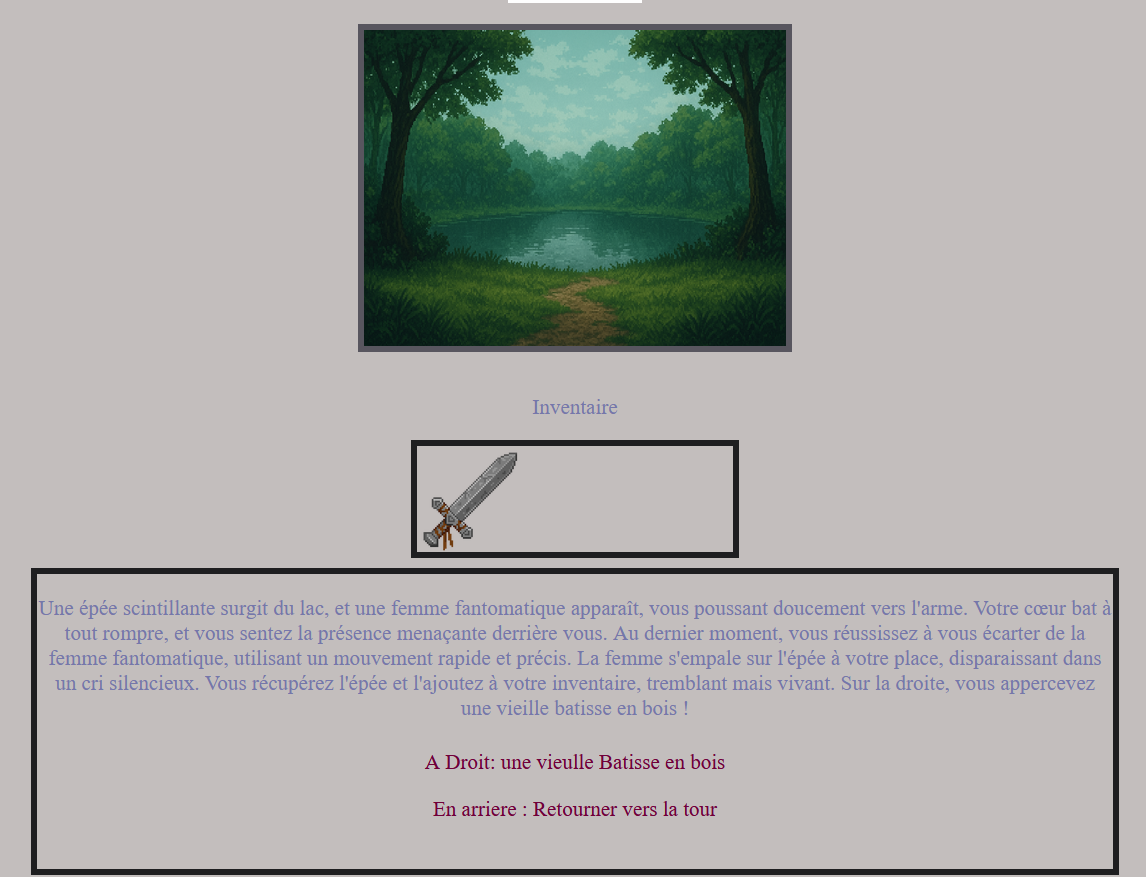
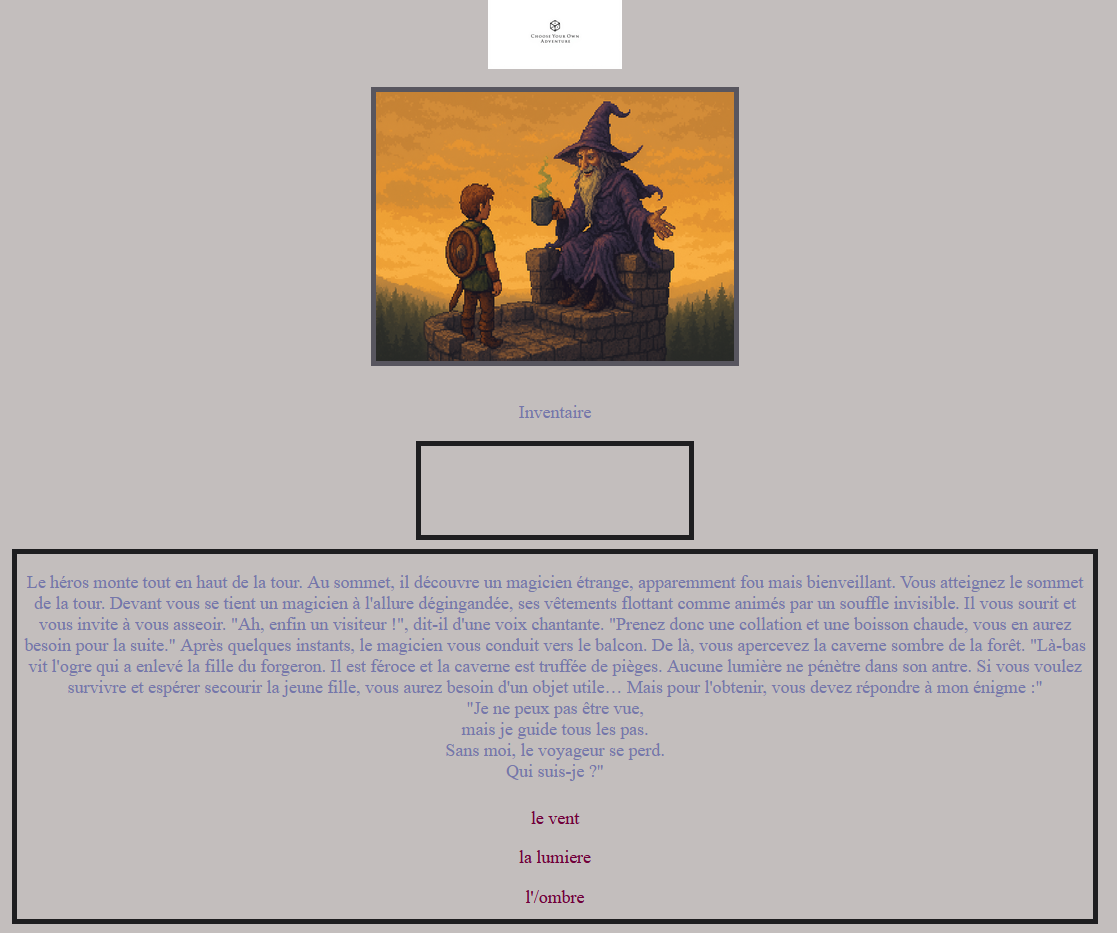
New commit

Changed region(s): [[0.0, 0.431, 1.0, 1.0], [0.3044, 0.0, 0.7001, 0.4002]]

diff --git a/index.html b/index.html
@@ -19,7 +19,7 @@
             <ul class="nav-links">
                 <li><a href="#about">À propos</a></li>
                 <li><a href="#skills">Compétences</a></li>
-                <li><a href="#certifications">certifs</a></li>
+                <li><a href="#certifications">certification</a></li>
                 <li><a href="#projects">Projets</a></li>
                 <li><a href="#stage">Stage</a></li>
                 <li><a href="#contact">Contacts</a></li>
@@ -86,14 +86,11 @@
             <!-- Présentation -->
             <div class="tab-content active" id="presentation">
                 <p>
-                        Étudiante en Bachelor Informatique & Développement, je me spécialise dans les systèmes,
-                        réseaux et le développement. Curieuse et passionnée, j’aime comprendre le fonctionnement
-                        des infrastructures, résoudre des incidents et créer des projets techniques pour monter
-                        en compétences.
+                    Étudiante en Bachelor Informatique & Développement, je me passionne pour les systèmes,
+                     les réseaux et le développement. Curieuse et rigoureuse, j’aime comprendre le fonctionnement des infrastructures, résoudre des incidents complexes et concevoir des projets techniques pour enrichir mes compétences.
                         <br><br>
-                        Mon objectif est de devenir une professionnelle polyvalente, capable d’intervenir aussi
-                        bien sur le support, l’administration système que sur des projets de développement et
-                        d’automatisation.
+                        Mon objectif est de devenir une spécialiste polyvalente, capable d’intervenir aussi bien sur le support et 
+                        l’administration système que sur des projets de développement et d’automatisation.
                     </p>
             </div>
 
@@ -189,7 +186,7 @@
                 <div class="skill-card">
                     <div class="skill-heading">
                         <div class="skill-icon">🌐</div>
-                        <h3>Dévelopement Full-stack</h3>
+                        <h3>Développement Full-stack</h3>
                     </div>
 
                     <div class="skill-list">
@@ -397,13 +394,14 @@
             <div class="card-slider" id="slider-aegis">
                 <button class="btn-retour" onclick="fermerSlider('aegis')">← Retour</button>
                 <div class="slider-images" id="images-aegis">
-                    <img class="slide-img active" src="img/projects/aegis-1.png" alt="AEGIS scan">
-                    <img class="slide-img" src="img/projects/aegis-2.png" alt="AEGIS Hydra">
-                    <img class="slide-img" src="img/projects/aegis-3.png" alt="AEGIS rapport">
+                    <img class="slide-img active" src="img/project/Projet-AEGIS/Cap1.png" alt="AEGIS scan">
+                    <img class="slide-img" src="img/project/Projet-AEGIS/Cap2.png" alt="AEGIS Hydra">
+                    <img class="slide-img" src="img/project/Projet-AEGIS/Cap3.png" alt="AEGIS rapport">
+                    <img class="slide-img" src="img/project/Projet-AEGIS/Cap4.png" alt="AEGIS rapport">
                 </div>
                 <div class="slider-nav">
                     <button onclick="slidePrec('aegis')">←</button>
-                    <span class="slide-compteur" id="compteur-aegis">1 / 3</span>
+                    <span class="slide-compteur" id="compteur-aegis">1 / 4</span>
                     <button onclick="slideSuiv('aegis')">→</button>
                 </div>
             </div>
@@ -432,12 +430,22 @@
             <div class="card-slider" id="slider-jeu">
                 <button class="btn-retour" onclick="fermerSlider('jeu')">← Retour</button>
                 <div class="slider-images" id="images-jeu">
-                    <img class="slide-img active" src="img/projects/jeu-1.png" alt="Jeu écran 1">
-                    <img class="slide-img" src="img/projects/jeu-2.png" alt="Jeu écran 2">
+                    <img class="slide-img active" src="img/project/JEUX-De-Hero/Capture1.png" alt="Jeu écran 1">
+                    <img class="slide-img" src="img/project/JEUX-De-Hero/Capture2.png" alt="Jeu écran 2">
+                    <img class="slide-img active" src="img/project/JEUX-De-Hero/Capture3.png" alt="Jeu écran 1">
+                    <img class="slide-img" src="img/project/JEUX-De-Hero/Capture4.png" alt="Jeu écran 2">
+                    <img class="slide-img active" src="img/project/JEUX-De-Hero/Capture5.png" alt="Jeu écran 1">
+                    <img class="slide-img active" src="img/project/JEUX-De-Hero/Capture7.png" alt="Jeu écran 1">
+                    <img class="slide-img" src="img/project/JEUX-De-Hero/Capture8.png" alt="Jeu écran 2">
+                    <img class="slide-img active" src="img/project/JEUX-De-Hero/Capture9.png" alt="Jeu écran 1">
+                    <img class="slide-img" src="img/project/JEUX-De-Hero/Capture10.png" alt="Jeu écran 2">
+                    <img class="slide-img active" src="img/project/JEUX-De-Hero/Capture11.png" alt="Jeu écran 1">
+                    
                 </div>
+                
                 <div class="slider-nav">
                     <button onclick="slidePrec('jeu')">←</button>
-                    <span class="slide-compteur" id="compteur-jeu">1 / 2</span>
+                    <span class="slide-compteur" id="compteur-jeu">1 / 10</span>
                     <button onclick="slideSuiv('jeu')">→</button>
                 </div>
             </div>
@@ -461,19 +469,19 @@
                     <a href="https://github.com/yohanneivana-tech/CLONE-site_web_burger_king" target="_blank" class="btn-github">GitHub ↗</a>
                     <button class="btn-slider" onclick="ouvrirSlider('bk')">⊞ Slider</button>
                 </div>
-                <!-- ↑ il manquait ce </div> pour fermer .project-btns -->
+                
             </div>
-            <!-- ↑ il manquait ce </div> pour fermer .card-content -->
+           
 
             <!-- Panneau slider BK -->
             <div class="card-slider" id="slider-bk">
                 <button class="btn-retour" onclick="fermerSlider('bk')">← Retour</button>
                 <div class="slider-images" id="images-bk">
-                    <img class="slide-img active" src="img/project/bk-img-1.png" alt="BK mobile">
-                    <img class="slide-img" src="img/project/bk-img-2.png" alt="BK desktop">
-                    <img class="slide-img" src="img/project/bk-img-3.png" alt="BK desktop">
-                    <img class="slide-img" src="img/project/bk-img-4.png" alt="BK desktop">
-                    <img class="slide-img" src="img/project/bk-img-5.png" alt="BK desktop">
+                    <img class="slide-img active" src="img/project/BGK/bk-img-1.png" alt="BK mobile">
+                    <img class="slide-img" src="img/project/BGK/bk-img-2.png" alt="BK desktop">
+                    <img class="slide-img" src="img/project/BGK/bk-img-3.png" alt="BK desktop">
+                    <img class="slide-img" src="img/project/BGK/bk-img-4.png" alt="BK desktop">
+                    <img class="slide-img" src="img/project/BGK/bk-img-5.png" alt="BK desktop">
                 </div>
                 <div class="slider-nav">
                     <button onclick="slidePrec('bk')">←</button>
@@ -572,7 +580,7 @@
                         </div>
                         <div class="mission-row">
                             <span class="mission-num">04</span>
-                            <span class="mission-text">Participation aux d'intervantions sur site</span>
+                            <span class="mission-text">Participation aux Intervantions sur site</span>
                         </div>
                     </div>
                 </div>
@@ -631,7 +639,7 @@
             </div>
             <div class="rapport-right">
                 <div class="rapport-meta">
-                    <div class="rapport-meta-val">25 pages</div>
+                    <div class="rapport-meta-val">23 pages</div>
                     <div class="rapport-meta-label">Volume</div>
                 </div>
                 <div class="rapport-divider"></div>
